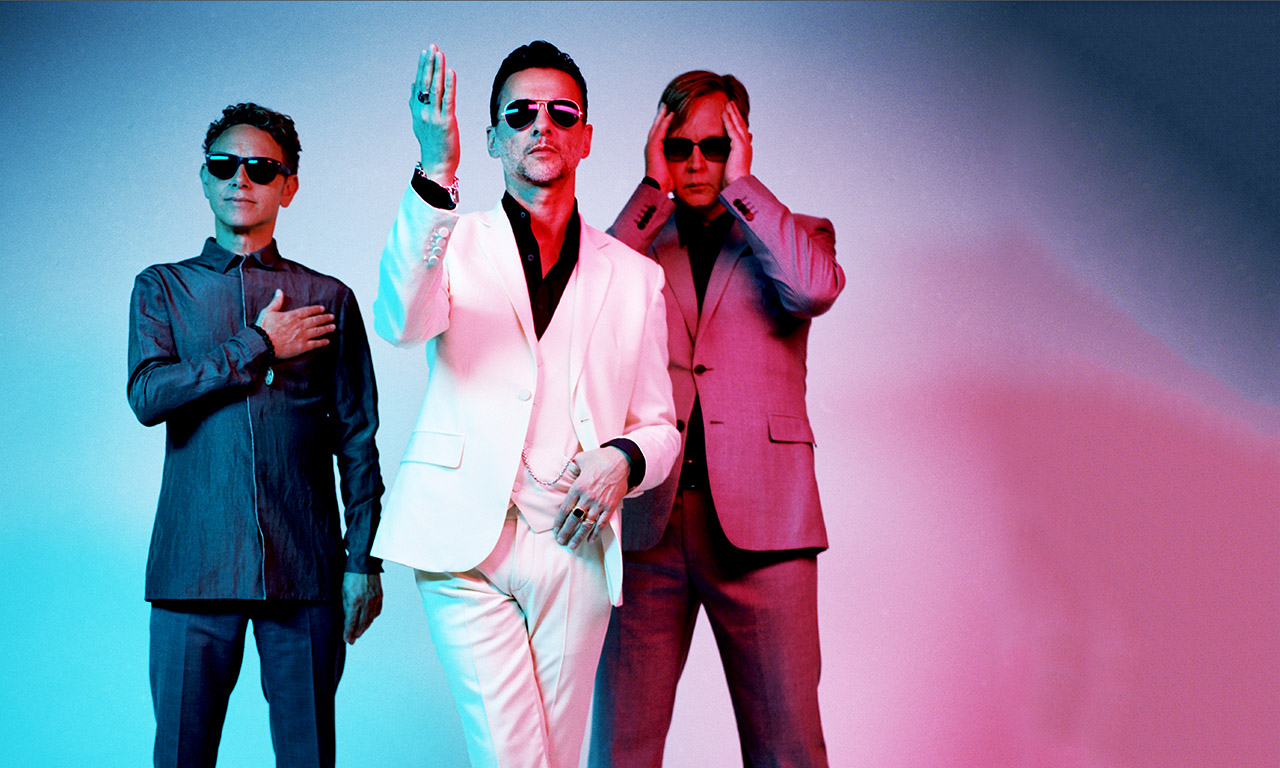
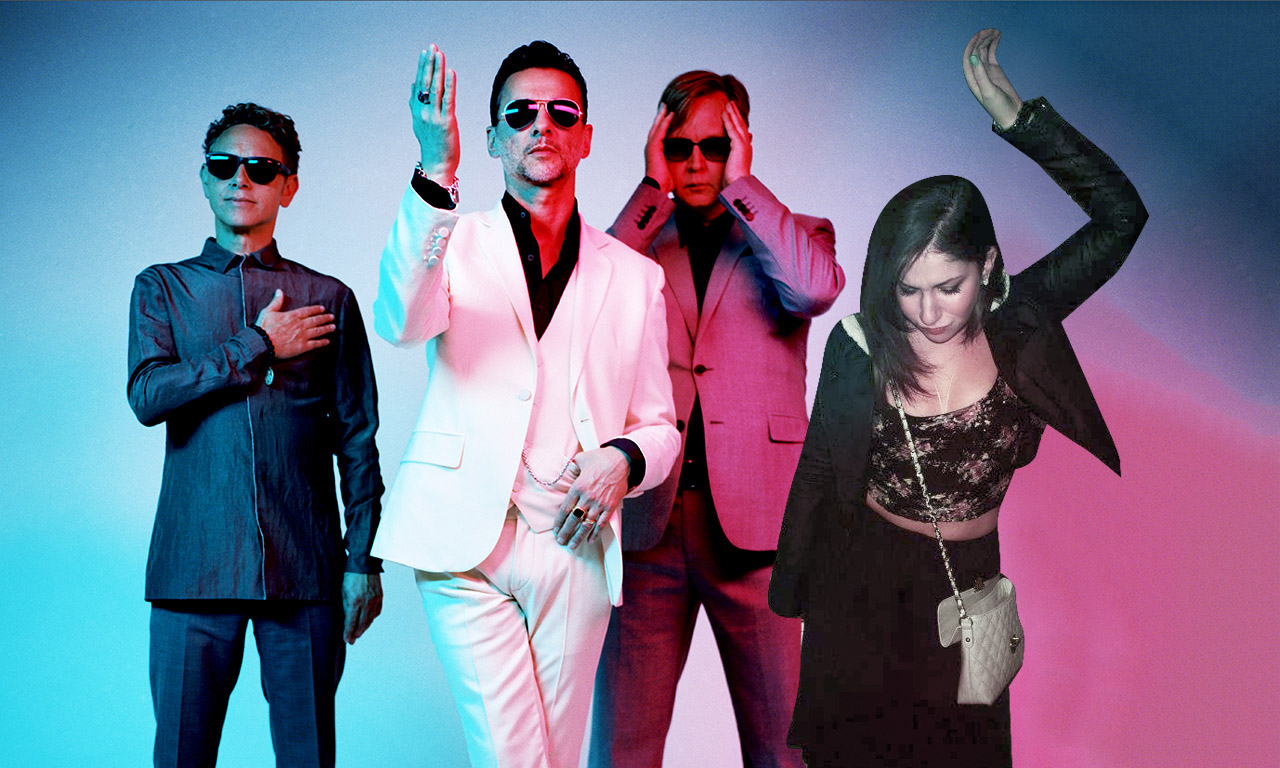
Content additions

Changed region(s): [[0.5938, 0.0, 0.9062, 1.0]]

diff --git a/index.html b/index.html
@@ -26,7 +26,31 @@
         </div>
       </div>
       <div class="content">
-        Here is stuff about me!
+        <div class="description">
+          <div class="introduction">
+            <h2 class="light-blue">So you want to know more about Caitlin Daitch?</h2>
+            <p>I am a Digital Producer working at a small web development agency down the street from General Assembly.</p>
+            <p>My company paid for me to take the Front End Web Development part-time course over the summer (FEWD 15 all day every day).</p>
+            <p>Long story short, I fell in love with it.</p>
+          </div>
+          <div class="break"></div>
+          <div class="faq">
+            <img src="images/caitlindaitch.jpg" class="headshot">
+            <h2 class="light-blue">Frequently Asked Questions</h2>
+            <p><span class="question light-blue">Q:</span> How did you become interested in web development?</p>
+            <p><span class="question light-blue">A:</span> When I was in middle school, I spent my free time teaching myself HTML/CSS code to create small websites and customize my social media accounts (MySpace, Xanga...you get the point). I continued working with it intermittently throughout high school, and I applied for the job of Communication Systems Director for the University of Maryland's student-run programming board, Student Entertainment Events. I spent a year and a half managing all online communications including the listserv emails (created using HTML/CSS) and managing the website. When I got my job as a Digital Producer for a web development agency, I was reminded of how passionate I am for development, and realized it is what I want to ultimately pursue.</p>
+            <p><span class="question light-blue clearfix">Q:</span> Who are those dudes in your hero image?</p>
+            <p><span class="question light-blue clearfix">A:</span> Depeche Mode. Also known as the greatest band in the entire world.</p>
+            <p><span class="question light-blue clearfix">Q:</span> Did you Photoshop yourself into that picture?</p>
+            <p><span class="question light-blue clearfix">A:</span> Yes. Yes, I did.</p>
+          </div>
+        </div>
+      </div>
+      <div class="contact">
+        <h2 class="bold">Contact Caitlin</h2>
+        <p><span class="bold">Phone:</span> 301-602-1417</p>
+        <p><span class="bold">Email:</span> <a href="mailto:caitlin.daitch@gmail.com">caitlin.daitch@gmail.com</a></p>
+        <p><span class="bold">Address:</span> 9604 Bruce Drive, Silver Spring, MD 20901</p>
       </div>
     </div>
   </body>

diff --git a/css/style.css b/css/style.css
@@ -2,9 +2,8 @@
   width: 100%;
   margin: 0 auto;
   overflow: hidden;
-  background-color: #34282C;
+  background-color: #303030;
 }
-
 
 .hero {
   width: 100%;
@@ -41,13 +40,85 @@ h2 {
   padding-top: 15px;
 }
 
+.description {
+  font-family: 'Montserrat',sans-serif;
+  font-weight: 400;
+  font-size: 15px;
+}
+
 .stroke {
   border: 2px solid white;
   padding: 10px;
+}
+
+.blue {
+  color: #5a9fc6;
+}
+
+.light-blue {
+  color: #92d8e4;
+}
+
+.clearfix {
+  clear: both;
+}
+
+.question {
+  font-family: 'crimson text';
+  font-weight: 700;
+  font-style: italic;
+  font-size: 22px;
+  padding-right: 10px;
+  float: left;
 }
 
 .content {
   width: 600px;
   margin: 0 auto;
   color: #ffffff;
+  padding-top: 10px;
+  padding-bottom: 25px;
+}
+
+.introduction {
+  padding: 25px;
+}
+
+.faq {
+  padding: 25px;
+}
+
+.break {
+  width: 75%;
+  height: 3px;
+  background-color: #fff;
+  margin: 0 auto;
+}
+
+.headshot {
+  float: left;
+  border-radius: 50%;
+  width: 200px;
+  padding: 15px;
+}
+
+.bold {
+  font-weight: 700;
+}
+
+.contact {
+  background-color: #C0C0C0;
+  width: 600px;
+  margin: 0 auto;
+  margin-bottom: 50px;
+  padding-right: 25px;
+  padding-left: 25px;
+  padding-bottom: 15px;
+  font-family: 'Montserrat',sans-serif;
+  font-weight: 400;
+  font-size: 15px;
+}
+
+a {
+  color: #404040;
 }
